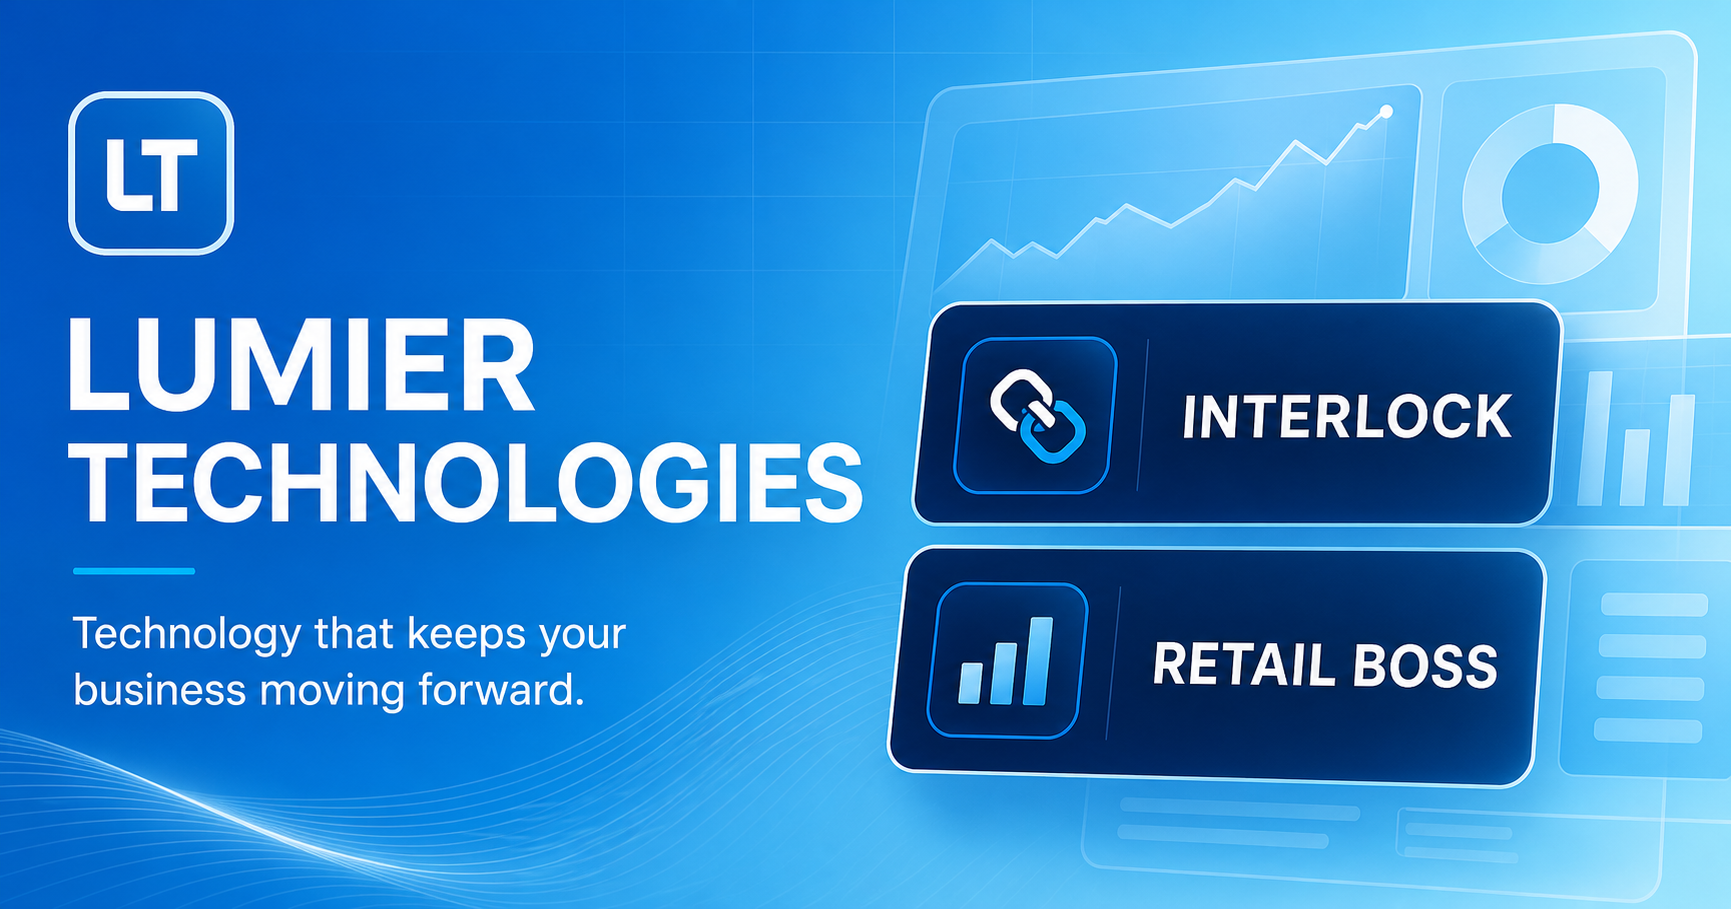
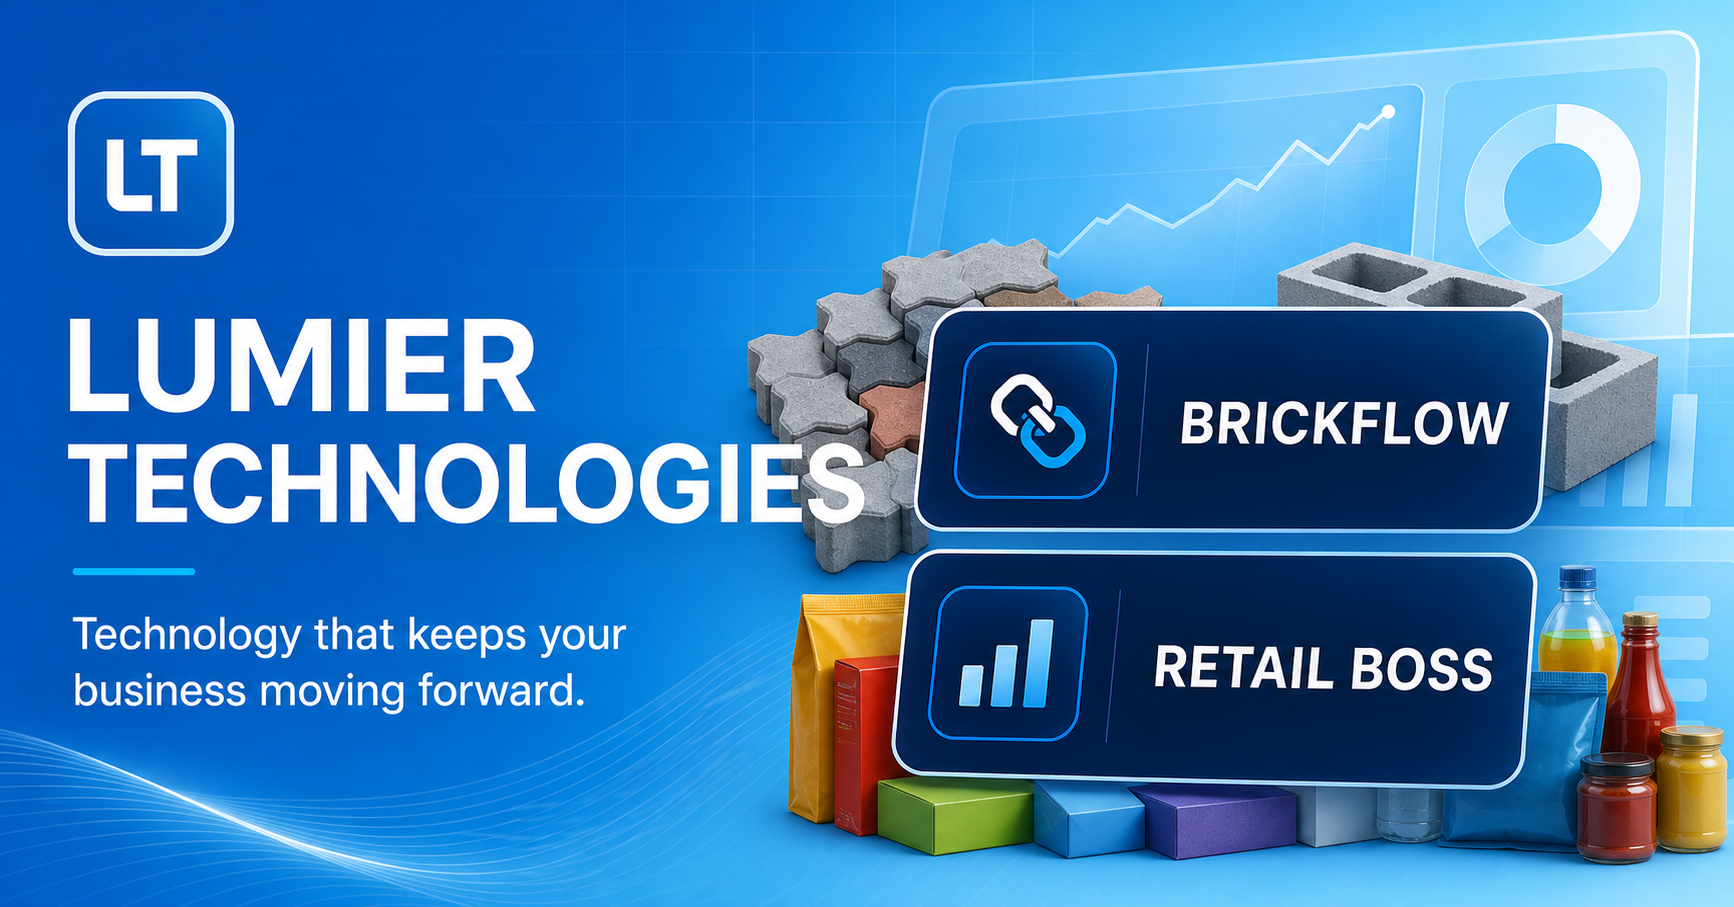
Rename Interlock to BrickFlow

diff --git a/app/globals.css b/app/globals.css
@@ -84,7 +84,7 @@ h1 em, h2 em { display: block; font-family: Georgia, serif; font-weight: 400; le
 .section-heading>p { color: var(--muted); line-height: 1.7; margin: 0; }
 .product-card { min-height: 620px; border-radius: 28px; overflow: hidden; display: grid; grid-template-columns: 42% 58%; margin-bottom: 28px; }
 .product-copy { padding: 58px; display: flex; flex-direction: column; align-items: flex-start; }
-.interlock-card .product-copy { background: var(--navy); color: white; }
+.brickflow-card .product-copy { background: var(--navy); color: white; }
 .product-number { font: 10px var(--font-geist-mono), monospace; text-transform: uppercase; letter-spacing: .16em; opacity: .6; }
 .product-icon { margin-top: 42px; width: 46px; height: 46px; display: grid; place-items: center; border-radius: 12px; background: var(--sky); color: white; font-size: 12px; font-weight: 800; }
 .product-copy h3 { font-size: 48px; letter-spacing: -.04em; margin: 22px 0 6px; }
@@ -94,8 +94,17 @@ h1 em, h2 em { display: block; font-family: Georgia, serif; font-weight: 400; le
 .product-copy li { font-size: 12px; display: flex; gap: 10px; align-items: center; }
 .product-copy li span { color: var(--sky); }
 .button-dark { background: white; color: var(--navy); margin-top: auto; }
-.interlock-visual { position: relative; background: radial-gradient(circle at 70% 30%, #e5f8ff 0, transparent 34%), #bcecff; overflow: hidden; }
-.interlock-visual:before { content: ""; position: absolute; width: 560px; height: 560px; border-radius: 50%; border: 1px solid rgba(255,255,255,.75); left: 80px; top: 20px; box-shadow: 0 0 0 70px rgba(255,255,255,.16); }
+.brickflow-visual { position: relative; background: radial-gradient(circle at 70% 30%, #e5f8ff 0, transparent 34%), #bcecff; overflow: hidden; }
+.brickflow-visual:before { content: ""; position: absolute; width: 560px; height: 560px; border-radius: 50%; border: 1px solid rgba(255,255,255,.75); left: 80px; top: 20px; box-shadow: 0 0 0 70px rgba(255,255,255,.16); }
+.brick-yard { position: absolute; inset: auto 0 0; height: 205px; z-index: 1; background: linear-gradient(to top, rgba(25,88,111,.18), transparent); }
+.brick-yard>span { position: absolute; left: 28px; bottom: 19px; padding: 7px 11px; border-radius: 999px; background: rgba(255,255,255,.82); color: #466675; font: 8px var(--font-geist-mono), monospace; text-transform: uppercase; letter-spacing: .12em; }
+.hollow-stack { position: absolute; right: 22px; bottom: 16px; width: 220px; display: grid; grid-template-columns: repeat(3, 1fr); gap: 5px; transform: skewY(-3deg); }
+.hollow-stack i { position: relative; height: 45px; border-radius: 3px; background: linear-gradient(145deg,#c9c5bb,#8e918e); box-shadow: inset 0 -6px 0 rgba(53,62,62,.13), 0 5px 10px rgba(34,77,92,.18); }
+.hollow-stack i:before,.hollow-stack i:after { content: ""; position: absolute; top: 10px; width: 17px; height: 22px; border-radius: 2px; background: #667176; box-shadow: inset 3px 3px 5px rgba(0,0,0,.25); }
+.hollow-stack i:before { left: 10px; }.hollow-stack i:after { right: 10px; }
+.paver-stack { position: absolute; left: 24px; bottom: 52px; width: 190px; height: 92px; }
+.paver-stack i { position: absolute; width: 70px; height: 27px; border-radius: 9px 4px 9px 4px; background: linear-gradient(145deg,#db8870,#a75546); border: 2px solid rgba(255,255,255,.25); box-shadow: 0 4px 8px rgba(74,70,61,.16); }
+.paver-stack i:nth-child(1){left:0;bottom:0}.paver-stack i:nth-child(2){left:62px;bottom:0}.paver-stack i:nth-child(3){left:124px;bottom:0}.paver-stack i:nth-child(4){left:30px;bottom:24px}.paver-stack i:nth-child(5){left:92px;bottom:24px}.paver-stack i:nth-child(6){left:0;bottom:48px}.paver-stack i:nth-child(7){left:62px;bottom:48px}.paver-stack i:nth-child(8){left:124px;bottom:48px}
 .phone { position: absolute; width: 230px; height: 470px; padding: 9px; background: #0b1b2d; border: 1px solid #415060; border-radius: 34px; box-shadow: 0 28px 60px rgba(10,64,89,.25); }
 .phone-screen { height: 100%; border-radius: 27px; overflow: hidden; background: #f6fafc; color: var(--ink); padding: 28px 16px; }
 .phone-front { left: 115px; top: 72px; transform: rotate(-5deg); z-index: 2; }
@@ -105,6 +114,9 @@ h1 em, h2 em { display: block; font-family: Georgia, serif; font-weight: 400; le
 .retail-card .product-copy { background: #fff; color: var(--ink); }
 .retail-icon { background: #7b65e9; }.button-blue { background: var(--sky); color: white; }
 .retail-visual { position: relative; background: linear-gradient(145deg, #effaff, #d7f2fc); padding: 105px 0 0 55px; overflow: hidden; }
+.retail-shelf { position: absolute; top: 22px; right: 22px; width: 280px; height: 86px; padding: 9px 14px; border-bottom: 7px solid #b9dbe8; display: flex; align-items: end; justify-content: space-around; opacity: .84; }
+.retail-shelf span { display: grid; place-items: center; color: rgba(255,255,255,.88); font: 7px var(--font-geist-mono), monospace; box-shadow: 0 4px 8px rgba(35,95,115,.1); }
+.product-box { width: 36px; height: 48px; border-radius: 4px; background: linear-gradient(145deg,#ff9c62,#ea6f5d); }.product-box.tall { height: 61px; background: linear-gradient(145deg,#67c6ed,#1da4dc); }.product-box.wide { width: 52px; height: 42px; background: linear-gradient(145deg,#7c69e9,#5740c8); }.product-bottle { width: 30px; height: 55px; border-radius: 10px 10px 6px 6px; background: linear-gradient(145deg,#57cf9e,#25a775); position: relative; }.product-bottle:before { content:""; position:absolute; width:14px; height:8px; top:-6px; border-radius:3px 3px 0 0; background:#178763; }.product-jar { width: 42px; height: 39px; border-radius: 8px 8px 13px 13px; background: linear-gradient(145deg,#f1c44d,#d79822); border-top: 7px solid #77563d; }
 .pos-window { width: 630px; height: 410px; background: white; border-radius: 16px; box-shadow: 0 28px 70px rgba(17,90,120,.16); overflow: hidden; }
 .pos-bar { height: 52px; display: flex; align-items: center; gap: 10px; padding: 0 18px; border-bottom: 1px solid #e8eff3; font-size: 8px; }.pos-bar>span:last-child { margin-left: auto; color: #8696a1; }.pos-logo { width: 25px; height: 25px; background: #7b65e9; color: white; display: grid; place-items: center; border-radius: 6px; }
 .pos-content { display: grid; grid-template-columns: 1fr 210px; height: calc(100% - 52px); }.pos-products { padding: 25px; background: #f8fbfc; }.pos-products p, .pos-bill p { font-size: 10px; font-weight: 700; margin: 0 0 18px; }.tile-grid { display: grid; grid-template-columns: 1fr 1fr; gap: 12px; }.tile-grid i { height: 112px; border-radius: 10px; background: white; border: 1px solid #e4ebef; padding: 14px; display: flex; flex-direction: column; justify-content: space-between; font-style: normal; }.tile-grid b { width: 29px; height: 29px; border-radius: 7px; display: grid; place-items: center; background: #e8f8fe; color: var(--sky); font-size: 8px; }.tile-grid span { font-size: 8px; }.pos-bill { padding: 25px 18px; position: relative; }.pos-bill>span { position: absolute; right: 18px; top: 25px; font-size: 7px; color: #82939f; }.bill-lines { display: grid; gap: 18px; padding: 4px 0 20px; }.bill-lines i { width: 100%; height: 7px; background: linear-gradient(to right, #dce7ec 0 55%, transparent 55% 75%, #dce7ec 75%); }.total { border-top: 1px solid #e6edf0; display: flex; justify-content: space-between; padding: 17px 0; font-size: 10px; }.pos-bill button { border: 0; width: 100%; height: 40px; color: white; background: var(--sky); border-radius: 8px; font-size: 8px; }
@@ -118,6 +130,6 @@ h1 em, h2 em { display: block; font-family: Georgia, serif; font-weight: 400; le
 .steps { border-top: 1px solid var(--line); }.steps article { padding: 34px 0; border-bottom: 1px solid var(--line); display: grid; grid-template-columns: 72px 1fr; }.steps article>span { font: 10px var(--font-geist-mono), monospace; color: var(--sky); }.steps h3 { margin: 0 0 9px; font-size: 22px; }.steps p { margin: 0; color: var(--muted); font-size: 14px; line-height: 1.6; }
 .contact { margin-bottom: 120px; min-height: 310px; background: linear-gradient(120deg, #10a4e2, #67cff4); color: white; border-radius: 28px; padding: 62px 70px; position: relative; overflow: hidden; display: flex; align-items: center; gap: 50px; }.contact-orb { position: absolute; font-size: 380px; font-weight: 900; line-height: 1; color: rgba(255,255,255,.08); right: 22%; top: -50px; transform: rotate(-8deg); }.contact-copy { position: relative; z-index: 1; max-width: 680px; }.contact .section-label { color: white; opacity: .75; margin-bottom: 18px; }.contact h2 { font-size: 50px; }.contact p { color: rgba(255,255,255,.78); line-height: 1.6; }.contact-button { position: relative; z-index: 1; margin-left: auto; flex: 0 0 180px; width: 180px; height: 180px; border-radius: 50%; background: white; color: var(--sky); display: flex; flex-direction: column; justify-content: center; align-items: center; gap: 18px; font-size: 13px; font-weight: 700; text-align: center; transition: transform .25s; }.contact-button:hover { transform: rotate(-4deg) scale(1.03); }.contact-button span { font-size: 19px; }
 footer { color: white; background: var(--navy); }.footer-main { min-height: 210px; display: grid; grid-template-columns: 1fr 1fr 1fr; align-items: center; }.footer-brand .brand-mark { background: var(--sky); color: white; }.footer-main>p { color: rgba(255,255,255,.55); font: italic 18px Georgia, serif; }.footer-links { display: grid; grid-template-columns: 1fr 1fr; gap: 18px; font-size: 12px; justify-self: end; width: 230px; }.footer-links a { color: rgba(255,255,255,.68); }.footer-bottom { border-top: 1px solid rgba(255,255,255,.12); height: 70px; display: flex; align-items: center; justify-content: space-between; color: rgba(255,255,255,.4); font-size: 10px; }
-@media (max-width: 980px) { .nav-links { display: none; }.hero-grid { grid-template-columns: 1fr; padding-top: 80px; }.hero { min-height: auto; }.product-stage { margin: -30px auto 20px; transform: scale(.82); width: 560px; }.hero-copy { max-width: 720px; }.product-card, .retail-card { grid-template-columns: 1fr; }.interlock-visual, .retail-visual { min-height: 580px; grid-row: 2; }.retail-card .retail-visual { grid-row: 2; }.service-grid { grid-template-columns: 1fr 1fr; }.approach { gap: 50px; }.contact { padding: 55px 45px; }.contact-button { flex-basis: 150px; width: 150px; height: 150px; } }
-@media (max-width: 680px) { .shell, .nav { width: min(100% - 32px, 1180px); }.nav { height: 76px; }.nav-cta { padding: 10px 13px; gap: 8px; }.brand-name { display: none; }.hero-grid { padding-top: 58px; }.hero h1 { font-size: 47px; }.hero-lede { font-size: 16px; }.hero-actions { align-items: flex-start; flex-direction: column; gap: 22px; }.hero-proof { gap: 14px; justify-content: space-between; }.hero-proof div { gap: 6px; }.product-stage { width: 520px; margin-left: -55px; transform: scale(.7); transform-origin: center; height: 430px; }.hero-bottom { padding: 0 24px; text-align: center; gap: 10px; font-size: 8px; }.intro { padding: 85px 0; grid-template-columns: 1fr; gap: 8px; }.intro h2, .section-heading h2, .approach h2 { font-size: 42px; }.products, .solutions, .approach { padding-top: 85px; padding-bottom: 85px; }.section-heading { grid-template-columns: 1fr; margin-bottom: 40px; }.product-card { border-radius: 20px; }.product-copy { padding: 38px 28px; min-height: 590px; }.product-copy h3 { font-size: 42px; }.interlock-visual { min-height: 500px; }.phone-front { left: 38px; }.phone-back { right: 5px; }.retail-visual { min-height: 470px; padding: 65px 0 0 22px; }.pos-window { width: 590px; transform: scale(.73); transform-origin: top left; }.sales-chip { right: 14px; bottom: 24px; }.service-grid { grid-template-columns: 1fr; }.service-grid article { min-height: 280px; }.service-symbol { margin-top: 38px; }.approach { grid-template-columns: 1fr; }.approach-copy { position: static; }.contact { width: calc(100% - 32px); padding: 45px 28px 35px; margin-bottom: 70px; display: block; }.contact h2 { font-size: 42px; }.contact-button { margin: 32px 0 0; width: 135px; height: 135px; }.footer-main { padding: 52px 0; grid-template-columns: 1fr; gap: 30px; }.footer-main .brand-name { display: block; }.footer-links { justify-self: start; }.footer-bottom { height: auto; padding: 24px 0; gap: 15px; flex-direction: column; align-items: flex-start; } }
+@media (max-width: 980px) { .nav-links { display: none; }.hero-grid { grid-template-columns: 1fr; padding-top: 80px; }.hero { min-height: auto; }.product-stage { margin: -30px auto 20px; transform: scale(.82); width: 560px; }.hero-copy { max-width: 720px; }.product-card, .retail-card { grid-template-columns: 1fr; }.brickflow-visual, .retail-visual { min-height: 580px; grid-row: 2; }.retail-card .retail-visual { grid-row: 2; }.service-grid { grid-template-columns: 1fr 1fr; }.approach { gap: 50px; }.contact { padding: 55px 45px; }.contact-button { flex-basis: 150px; width: 150px; height: 150px; } }
+@media (max-width: 680px) { .shell, .nav { width: min(100% - 32px, 1180px); }.nav { height: 76px; }.nav-cta { padding: 10px 13px; gap: 8px; }.brand-name { display: none; }.hero-grid { padding-top: 58px; }.hero h1 { font-size: 47px; }.hero-lede { font-size: 16px; }.hero-actions { align-items: flex-start; flex-direction: column; gap: 22px; }.hero-proof { gap: 14px; justify-content: space-between; }.hero-proof div { gap: 6px; }.product-stage { width: 520px; margin-left: -55px; transform: scale(.7); transform-origin: center; height: 430px; }.hero-bottom { padding: 0 24px; text-align: center; gap: 10px; font-size: 8px; }.intro { padding: 85px 0; grid-template-columns: 1fr; gap: 8px; }.intro h2, .section-heading h2, .approach h2 { font-size: 42px; }.products, .solutions, .approach { padding-top: 85px; padding-bottom: 85px; }.section-heading { grid-template-columns: 1fr; margin-bottom: 40px; }.product-card { border-radius: 20px; }.product-copy { padding: 38px 28px; min-height: 590px; }.product-copy h3 { font-size: 42px; }.brickflow-visual { min-height: 500px; }.phone-front { left: 38px; }.phone-back { right: 5px; }.retail-visual { min-height: 470px; padding: 65px 0 0 22px; }.pos-window { width: 590px; transform: scale(.73); transform-origin: top left; }.sales-chip { right: 14px; bottom: 24px; }.service-grid { grid-template-columns: 1fr; }.service-grid article { min-height: 280px; }.service-symbol { margin-top: 38px; }.approach { grid-template-columns: 1fr; }.approach-copy { position: static; }.contact { width: calc(100% - 32px); padding: 45px 28px 35px; margin-bottom: 70px; display: block; }.contact h2 { font-size: 42px; }.contact-button { margin: 32px 0 0; width: 135px; height: 135px; }.footer-main { padding: 52px 0; grid-template-columns: 1fr; gap: 30px; }.footer-main .brand-name { display: block; }.footer-links { justify-self: start; }.footer-bottom { height: auto; padding: 24px 0; gap: 15px; flex-direction: column; align-items: flex-start; } }
 @media (prefers-reduced-motion: reduce) { html { scroll-behavior: auto; } *, *:before, *:after { transition: none !important; } }

diff --git a/app/page.tsx b/app/page.tsx
@@ -85,32 +85,40 @@ export default function Home() {
           <p>Purpose-built platforms that bring people, processes, and performance together.</p>
         </div>
 
-        <article className="product-card interlock-card">
+        <article className="product-card brickflow-card">
           <div className="product-copy">
-            <span className="product-number">01 / Operations</span>
-            <div className="product-icon">IL</div>
-            <h3>Interlock</h3>
-            <p className="product-tagline">Your complete management app.</p>
-            <p>Bring projects, people, cash flow, approvals, and daily activity into one connected workspace.</p>
+            <span className="product-number">01 / Manufacturing operations</span>
+            <div className="product-icon">BF</div>
+            <h3>BrickFlow</h3>
+            <p className="product-tagline">The complete company manager for interlock &amp; hollow-brick businesses.</p>
+            <p>Connect orders, production, materials, stock, deliveries, cash flow, staff, and customers in one purpose-built workspace.</p>
             <ul>
-              <Check>Real-time operational visibility</Check>
-              <Check>Team and workflow coordination</Check>
-              <Check>Clear reports for faster decisions</Check>
+              <Check>Production and raw-material tracking</Check>
+              <Check>Orders, dispatch, and customer accounts</Check>
+              <Check>Cash flow, teams, and business reports</Check>
             </ul>
-            <a className="button button-dark" href="#contact">Discover Interlock <Arrow /></a>
+            <a className="button button-dark" href="#contact">Discover BrickFlow <Arrow /></a>
           </div>
-          <div className="interlock-visual">
+          <div className="brickflow-visual">
+            <div className="brick-yard" aria-hidden="true">
+              <div className="hollow-stack"><i /><i /><i /><i /><i /><i /></div>
+              <div className="paver-stack"><i /><i /><i /><i /><i /><i /><i /><i /></div>
+              <span>Production yard</span>
+            </div>
             <div className="phone phone-back">
               <div className="phone-screen"><span>Payments</span><strong>₹ 1,28,500</strong><div className="donut" /><small>On track this month</small></div>
             </div>
             <div className="phone phone-front">
-              <div className="phone-screen"><div className="phone-welcome"><span>INTERLOCK</span><b>•••</b></div><p>Good afternoon</p><h4>Your workspace</h4><div className="quick-grid"><i>Projects</i><i>Cash flow</i><i>Teams</i><i>Reports</i></div><div className="task-line"><span>Today&apos;s activity</span><b>12 updates</b></div><div className="mini-list"><i /><i /><i /></div></div>
+              <div className="phone-screen"><div className="phone-welcome"><span>BRICKFLOW</span><b>•••</b></div><p>Good afternoon</p><h4>Your factory</h4><div className="quick-grid"><i>Production</i><i>Cash flow</i><i>Dispatch</i><i>Reports</i></div><div className="task-line"><span>Today&apos;s activity</span><b>12 updates</b></div><div className="mini-list"><i /><i /><i /></div></div>
             </div>
           </div>
         </article>
 
         <article className="product-card retail-card">
           <div className="retail-visual">
+            <div className="retail-shelf" aria-hidden="true">
+              <span className="product-box tall">A</span><span className="product-bottle">B</span><span className="product-box">C</span><span className="product-jar">D</span><span className="product-box wide">E</span>
+            </div>
             <div className="pos-window">
               <div className="pos-bar"><span className="pos-logo">R</span><b>RETAIL BOSS</b><span>Register 01</span></div>
               <div className="pos-content">

diff --git a/app/layout.tsx b/app/layout.tsx
@@ -14,12 +14,12 @@ export async function generateMetadata(): Promise<Metadata> {
 
   return {
     title: "Lumier Technologies | Business Software That Moves You Forward",
-    description: "Lumier Technologies builds practical business software, including Interlock management app and Retail Boss retail platform.",
+    description: "Lumier Technologies builds practical business software, including BrickFlow for interlock and hollow-brick companies and the Retail Boss retail platform.",
     openGraph: {
       title: "Lumier Technologies",
       description: "Technology that keeps your business moving forward.",
       type: "website",
-      images: [{ url: `${origin}/og.png`, width: 1200, height: 630, alt: "Lumier Technologies — Interlock and Retail Boss" }],
+      images: [{ url: `${origin}/og.png`, width: 1200, height: 630, alt: "Lumier Technologies — BrickFlow and Retail Boss" }],
     },
     twitter: {
       card: "summary_large_image",
